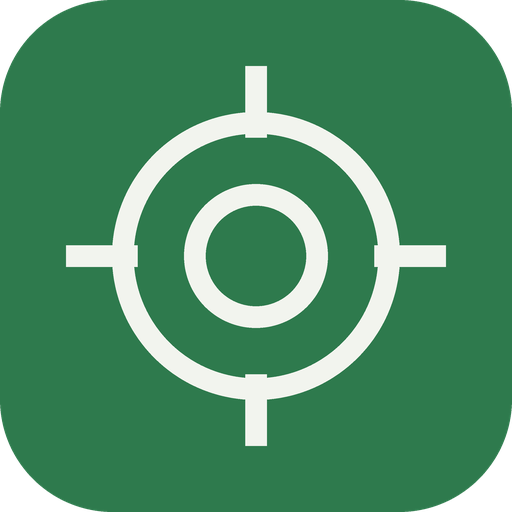
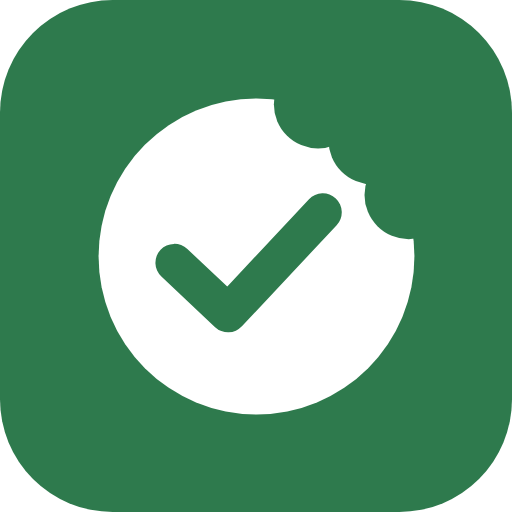
Add files via upload

Changed region(s): [[0.125, 0.125, 0.875, 0.875]]

diff --git a/index.html b/index.html
@@ -8,16 +8,17 @@
 <meta name="theme-color" content="#F2F4EE" media="(prefers-color-scheme: light)">
 <meta name="theme-color" content="#0F1311" media="(prefers-color-scheme: dark)">
 <link rel="manifest" href="manifest.webmanifest">
-<link rel="icon" href="icons/icon-192.png">
+<link rel="icon" href="icons/mark.svg" type="image/svg+xml">
+<link rel="icon" href="icons/favicon-32.png" sizes="32x32" type="image/png">
 <link rel="apple-touch-icon" href="icons/apple-touch-icon.png">
 <link rel="stylesheet" href="css/app.css">
 </head>
 <body>
 <div class="app">
   <header class="top">
-    <div class="brand">
-      <svg viewBox="0 0 24 24" fill="none" stroke="currentColor" stroke-width="2" aria-hidden="true"><circle cx="12" cy="12" r="9"/><circle cx="12" cy="12" r="4.5"/><path d="M12 3v2.5M12 18.5V21M3 12h2.5M18.5 12H21" stroke-linecap="round"/></svg>
-      Munchmark
+    <div class="brand" aria-label="Munchmark">
+      <svg class="mark" viewBox="0 0 120 120" aria-hidden="true"><defs><mask id="brand-bite" maskUnits="userSpaceOnUse" x="0" y="0" width="120" height="120"><rect width="120" height="120" fill="#fff"/><circle cx="79.5" cy="11.8" r="14" fill="#000"/><circle cx="96.8" cy="23.2" r="14" fill="#000"/><circle cx="108.2" cy="40.5" r="14" fill="#000"/></mask></defs><circle cx="60" cy="60" r="50" fill="currentColor" mask="url(#brand-bite)"/><path class="mark-check" d="M34 62 L51 78 L81 46" fill="none" stroke-width="12" stroke-linecap="round" stroke-linejoin="round"/></svg>
+      <span class="wordmark" aria-hidden="true">munch<span>mark</span></span>
     </div>
     <span class="top-right">
       <button type="button" class="btn ghost sm" id="install-btn" hidden>Install app</button>

diff --git a/sw.js b/sw.js
@@ -1,11 +1,11 @@
 // Offline support: the app shell, food data and recognizer runtime are cached on install.
 // The recognizer's model files are cached separately by Transformers.js after the first download.
-const VERSION = 'macrolens-v13';
+const VERSION = 'macrolens-v14';
 const SHELL = [
   './', 'index.html', 'privacy.html', 'terms.html', 'notices.html', 'manifest.webmanifest', 'css/app.css',
   'js/app.js', 'js/search.js', 'js/labels.js', 'js/parse.js', 'js/store.js', 'js/recognizer.js', 'js/planner.js', 'js/week.js', 'js/wrapped.js', 'js/off.js', 'js/packscan.js', 'js/brands.js', 'js/diet.js', 'js/water.js', 'js/sports.js', 'js/healthimport.js', 'js/restaurants.js', 'js/online.js', 'js/label.js', 'js/gemini.js', 'js/config.js',
   'data/foods.json', 'fonts/archivo.woff2', 'fonts/figtree.woff2',
-  'icons/icon-192.png', 'icons/icon-512.png', 'icons/maskable-512.png',
+  'icons/icon-192.png', 'icons/icon-512.png', 'icons/maskable-512.png', 'icons/mark.svg', 'icons/favicon-32.png', 'icons/apple-touch-icon.png',
   'vendor/tesseract/tesseract.esm.min.js', 'vendor/tesseract/worker.min.js', 'vendor/tesseract/eng.traineddata.gz', 'vendor/tesseract/ssd_int.traineddata.gz', 'vendor/tesseract/tesseract-core-relaxedsimd-lstm.wasm.js', 'vendor/tesseract/tesseract-core-simd-lstm.wasm.js',
   'vendor/transformers.min.js', 'vendor/ort-wasm-simd-threaded.jsep.mjs', 'vendor/ort-wasm-simd-threaded.jsep.wasm',
 ];

diff --git a/css/app.css b/css/app.css
@@ -25,8 +25,11 @@ button{cursor:pointer}
 .app{max-width:480px;margin:0 auto;padding-inline:16px;padding-block:calc(8px + env(safe-area-inset-top,0px)) calc(104px + env(safe-area-inset-bottom,0px))}
 .tnum{font-variant-numeric:tabular-nums}
 .top{display:flex;align-items:center;justify-content:space-between;gap:12px;padding-block:8px 12px}
-.brand{display:flex;align-items:center;gap:8px;font-family:var(--f-display);font-weight:800;font-stretch:125%;font-size:19px;letter-spacing:-.01em}
-.brand svg{width:24px;height:24px;color:var(--accent)}
+.brand{display:flex;align-items:center;gap:8px;font-family:var(--f-display);font-weight:800;font-stretch:125%;font-size:21px;letter-spacing:-.04em;line-height:1}
+.brand .mark{width:28px;height:28px;flex:none;color:var(--accent)}
+.brand .mark-check{stroke:var(--accent-ink)}
+.brand .wordmark{color:var(--ink);padding-bottom:2px}
+.brand .wordmark span{color:var(--accent)}
 .offline-pill{font-size:12px;font-weight:650;border-radius:999px;padding:4px 10px;background:var(--surface-2);color:var(--muted)}
 .view{display:flex;flex-direction:column;gap:20px}
 .h{font-family:var(--f-display);font-weight:700;font-stretch:110%;font-size:12px;letter-spacing:.09em;text-transform:uppercase;color:var(--muted);margin:0}

diff --git a/notices.html b/notices.html
@@ -3,6 +3,8 @@
 <head>
 <meta charset="utf-8">
 <meta name="viewport" content="width=device-width,initial-scale=1">
+<link rel="icon" href="icons/mark.svg" type="image/svg+xml">
+<link rel="icon" href="icons/favicon-32.png" sizes="32x32" type="image/png">
 <title>Munchmark third-party notices</title>
 <style>
   :root{--bg:#F2F4EE;--ink:#17201A;--muted:#55605A;--line:#D8DDD3;--accent:#2E7A4D}

diff --git a/privacy.html b/privacy.html
@@ -3,6 +3,8 @@
 <head>
 <meta charset="utf-8">
 <meta name="viewport" content="width=device-width,initial-scale=1">
+<link rel="icon" href="icons/mark.svg" type="image/svg+xml">
+<link rel="icon" href="icons/favicon-32.png" sizes="32x32" type="image/png">
 <title>Munchmark privacy policy</title>
 <style>
   :root{--bg:#F2F4EE;--ink:#17201A;--muted:#55605A;--line:#D8DDD3;--accent:#2E7A4D}

diff --git a/terms.html b/terms.html
@@ -3,6 +3,8 @@
 <head>
 <meta charset="utf-8">
 <meta name="viewport" content="width=device-width,initial-scale=1">
+<link rel="icon" href="icons/mark.svg" type="image/svg+xml">
+<link rel="icon" href="icons/favicon-32.png" sizes="32x32" type="image/png">
 <title>Munchmark terms of use</title>
 <style>
   :root{--bg:#F2F4EE;--ink:#17201A;--muted:#55605A;--line:#D8DDD3;--accent:#2E7A4D}
